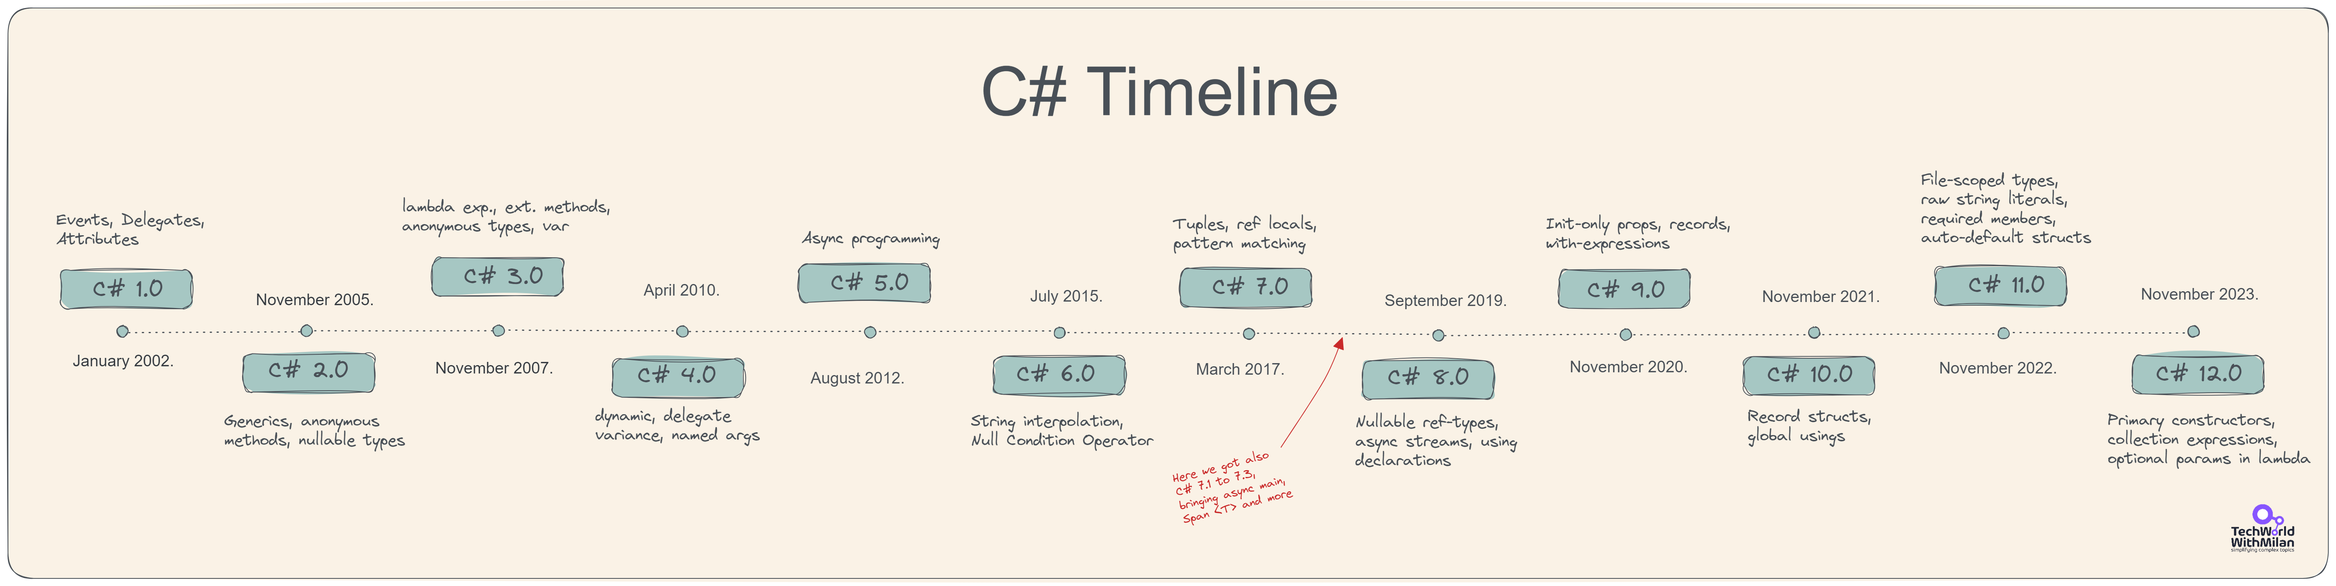
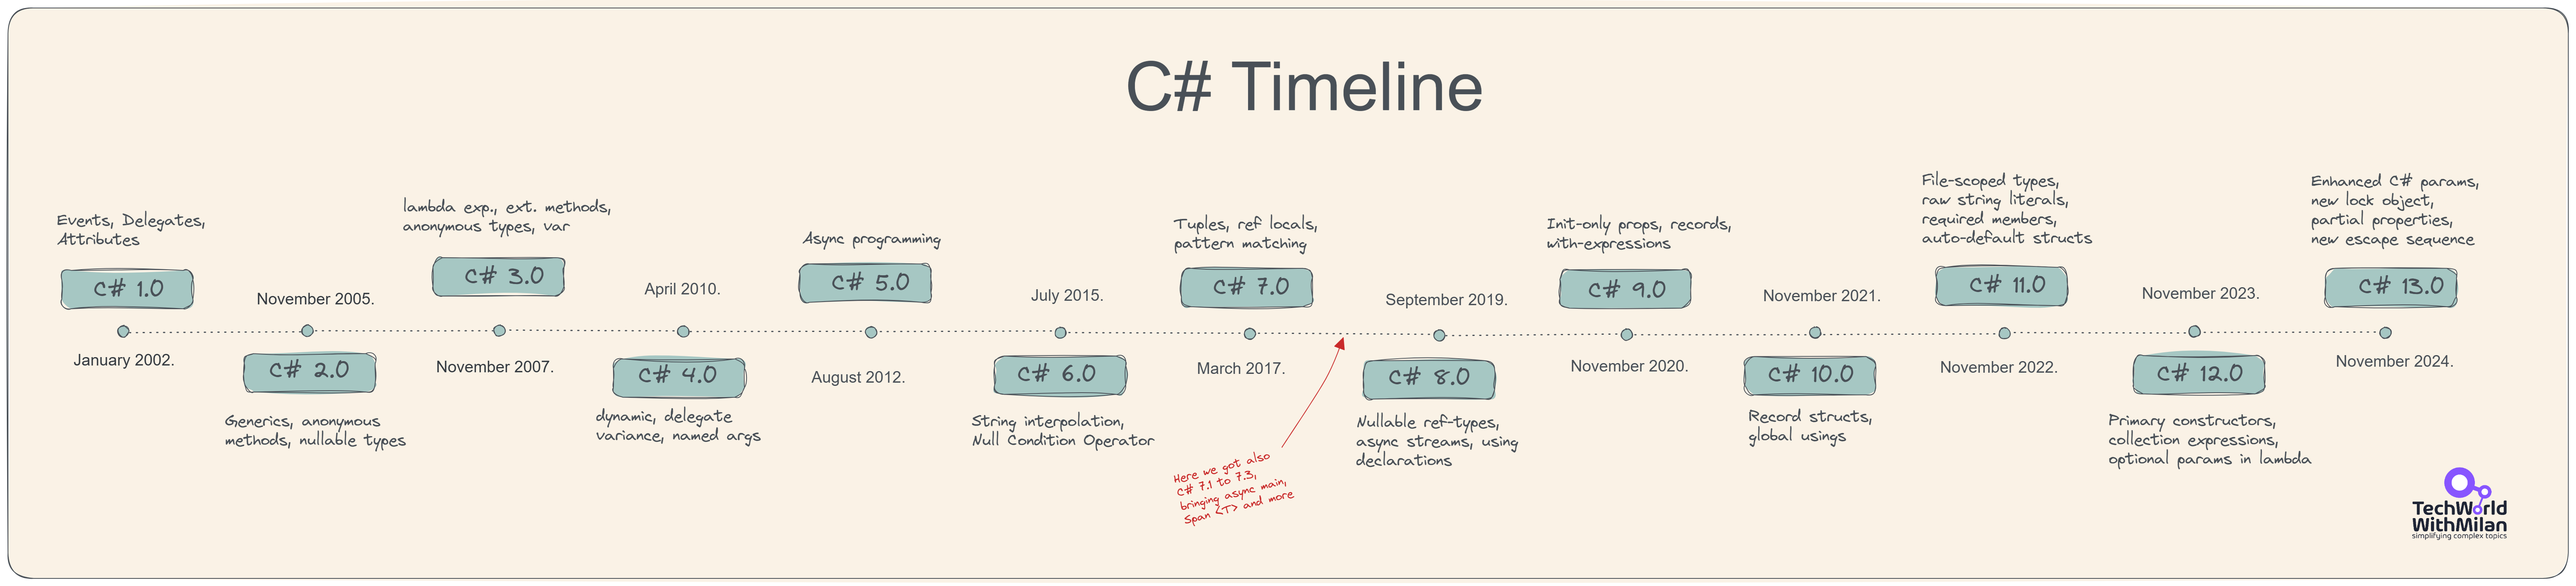
Update for .NET 9 and C# 13

diff --git a/README.md b/README.md
@@ -48,7 +48,7 @@ Download [PDF version](NET%20Developer%20Roadmap%202024.%20Minimal.pdf).
     - [.NET Framework](#net-framework)
     - [.NET Core](#net-core)
     - [The One .NET - .NET 5](#the-one-net---net-5)
-    - [The current - .NET 8](#the-current---net-8)
+    - [The current - .NET 9](#the-current---net-9)
   - [.NET Standard](#net-standard)
 - [Learning resources](#learning-resources)
   - [1. C#](#1-c)
@@ -105,13 +105,13 @@ You can use it for both desktop and web development, but it is limited to Window
 
 [.NET 5](https://dotnet.microsoft.com/en-us/download/dotnet/5.0) was released in November 2020 with the goal of unifying development for desktop, Web, cloud, mobile, gaming, IoT, and AI applications. The earlier setup goal was to produce a single .NET runtime and framework, cross-platform, integrating the best features of .NET Core, .NET Framework, Xamarin, and Mono. However, due to the global health pandemic, the unification was postponed to .NET 6. .NET 5 is a shared code base for .NET Core, Mono, Xamarin, and future .NET implementations. Also, target framework names (TFMs), which express which version of .NET targeting, are updated, so we now have net5.0. This is for code that runs everywhere. It combines and replaces the netcoreapp and netstandard names and net5.0-windows that represent OS-specific flavors of .NET 5 that include net5.0 plus OS-specific bindings.
 
-### The current - .NET 8
+### The current - .NET 9
 
-[.NET 8](https://learn.microsoft.com/en-us/dotnet/core/whats-new/dotnet-8) is the latest runtime in the .NET Ecosystem. It is released in November 2023. and it unifies development for desktop, Web, cloud, mobile, gaming, IoT, and AI applications. .NET 8 consists of an App Host (dotnet.exe) that runs CLR and Library. It has a Common language runtime (CoreCLR) and .NET 8 Class Library. It also includes ASP.NET Core 8. .NET 8 has nearly identical platform support as .NET Core 3.1 for Windows, macOS, and Linux.
+[.NET 9](https://learn.microsoft.com/en-us/dotnet/core/whats-new/dotnet-9/overview) is the latest runtime in the .NET Ecosystem. It is released in November 2024. and it unifies development for desktop, Web, cloud, mobile, gaming, IoT, and AI applications. .NET 9 consists of an App Host (dotnet.exe) that runs CLR and Library. It has a Common language runtime (CoreCLR) and .NET 8 Class Library. It also includes ASP.NET Core 9. .NET 9 has nearly identical platform support as .NET Core 3.1 for Windows, macOS, and Linux.
 
-.NET 8 is a **Long Term Support (LTS)**. Those releases are supported for three years after the initial release.
+.NET 9 is a **Standard Term Support** release, supported for six months after a subsequent STS or LTS release.
 
-.NET 7 was a **Standard Term Support** release, supported for six months after a subsequent STS or LTS release.
+.NET 8 was a **Long Term Support (LTS)**. Those releases are supported for three years after the initial release.
 
 ## .NET Standard
 
@@ -130,7 +130,7 @@ To learn more about the .NET Ecosystem, check [this blog post](https://milan.mil
 
 C# is a programming language developed by Microsoft. It's a language for building anything from desktop applications and games (using Unity) to cloud-based solutions and web services. With **strong support for object-oriented programming** and a rich library, it's designed to be easy and efficient. 
 
-The latest version is **[C# 12](https://learn.microsoft.com/en-us/dotnet/csharp/whats-new/csharp-12)**, released in November 2023.
+The latest version is **[C# 13](https://learn.microsoft.com/en-us/dotnet/csharp/whats-new/csharp-13)**, released in November 2024.
 
 Check the full C# timeline:
 
